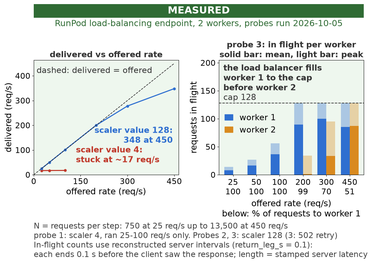
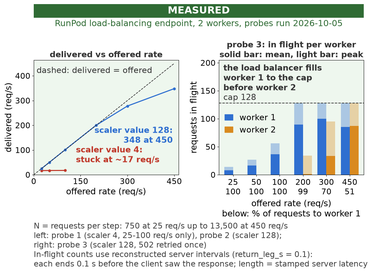
figures: the host-speed note counts 6 hosts in the curve, host re-measurement and validation records; the load-balancer note says which probe each panel draws; the plateau label is the median, as the post quotes it
The symlog comment no longer claims +-0.01 s is below every residual: two of
attempt 1's judged residuals (about -0.005 and -0.007 s) sit in the linear part.
The host-speed figure's bottom margin grows to fit the wrapped note. Re-rendered
and published; looked at host_speed and load_balancer at full size and phone
width: every note line on canvas and legible, nothing overlapping.

Changed region(s): [[0.088, 0.8498, 0.9973, 0.9963]]

diff --git a/autoscale/figures_a2_post.py b/autoscale/figures_a2_post.py
@@ -49,9 +49,10 @@ BIN_WIDTH_S = 10.0
 # sit near 0.05 s with a few bins to 1.3 s; on a linear axis wide enough for the
 # first, the second is a flat line on zero and the change of sign -- the whole
 # point of the figure -- cannot be seen (the first render did exactly that, with
-# the sign carried only by an annotation). Linear inside +-0.01 s, which is
-# below every residual in the data, so zero stays a line and no value is
-# squashed into it.
+# the sign carried only by an annotation). Linear inside +-0.01 s, so zero
+# stays a line. Two of attempt 1's judged residuals (about -0.005 and -0.007 s)
+# fall inside that linear part: they are drawn close to zero at their true
+# linear position, not squashed onto it. Every other residual is outside it.
 SYMLOG_LINTHRESH_S = 0.01
 Y_TICKS_S = [-6, -1, -0.1, 0, 0.1, 1, 6]
 
@@ -232,7 +233,8 @@ def load_balancer(analysis: dict, path, *, return_figure=False):
                      label=label, gid=gid)
     ax_rate.plot([0, offered_max], [0, offered_max], color=CURVE_COLOR, linewidth=1.3,
                  linestyle="--", label="delivered = offered", gid="offered_equals_delivered")
-    plateau = statistics.mean(
+    # The median over probe 1's steps, as the post quotes it (`lb_ceiling_rate`).
+    plateau = statistics.median(
         step["delivered_rate_rps"] for _, step in _steps(analysis, "1"))
     # Direct labels, not a legend: a legend in a panel this small lands on the
     # lines it names (the first render did exactly that), and the plateau, which
@@ -299,8 +301,8 @@ def load_balancer(analysis: dict, path, *, return_figure=False):
     _note(ax_rate,
           f"N = requests per step: {min(requests):,} at {min(rates)} req/s up to "
           f"{max(requests):,} at {max(rates)} req/s\n"
-          f"probe 1: scaler 4, ran {rates_1[0]}-{rates_1[-1]} req/s only. "
-          f"Probes 2, 3: scaler 128 (3: 502 retry)\n"
+          f"left: probe 1 (scaler 4, {rates_1[0]}-{rates_1[-1]} req/s only), probe 2 "
+          f"(scaler 128);\nright: probe 3 (scaler 128, 502 retried once)\n"
           f"In-flight counts use reconstructed server intervals (return_leg_s = {leg}):\n"
           f"each ends {leg} s before the client saw the response; length = stamped server latency",
           y=-0.41)
@@ -353,7 +355,7 @@ def host_speed(analysis: dict, path, *, return_figure=False):
     curve_host = " / ".join(curve_hosts)
     fig, ax = plt.subplots(figsize=(FIG_WIDTH_IN, FIG_HEIGHT_IN))
     left, right = 0.11, 0.96
-    fig.subplots_adjust(left=left, right=right, top=0.80, bottom=0.38)
+    fig.subplots_adjust(left=left, right=right, top=0.80, bottom=0.42)
     xs_of = {level: i for i, level in enumerate(HOST_LEVELS)}
 
     ax.axhline(1.0, color=CURVE_COLOR, linewidth=2, gid="curve_host")
@@ -396,9 +398,9 @@ def host_speed(analysis: dict, path, *, return_figure=False):
               fontsize=_pt(PX_LEGEND), frameon=False, borderaxespad=0.0)
     _note(ax, "ratio axis starting at 0.75, not 0: a ratio near 1 is unreadable on an axis from 0\n"
               "N: 3 runs per level (daps3haubwrzbn, each sweep); 3 repeats (sef5s24viyecyr)\n"
-              f"{seen['count']} hosts in the curve and validation records, "
-              f"{seen['measured_for_speed']} measured for speed; not a distribution",
-          y=-0.60)
+              f"{seen['count']} hosts in the curve, host re-measurement and validation "
+              f"records,\n{seen['measured_for_speed']} measured for speed; not a distribution",
+          y=-0.62)
     _figure_banner(fig, left, right, "MEASURED",
                    "server-side latency on 3 RunPod hosts, relative to the curve's host",
                    MEASURED_BANNER)

diff --git a/tests/test_a2_post_figures.py b/tests/test_a2_post_figures.py
@@ -1,5 +1,6 @@
 """The post's four figures: content, legibility at phone width, nothing off canvas."""
 
+import copy
 import json
 from pathlib import Path
 
@@ -33,6 +34,11 @@ def _legible_and_on_canvas(fig):
                 t.get_text()
 
 
+def _flat(fig):
+    """Every text joined, line breaks as spaces: a note wrapped to fit reads as one line."""
+    return " ".join(" ".join(_texts(fig)).split())
+
+
 def _gids(fig):
     return [a.get_gid() for a in fig.findobj() if getattr(a, "get_gid", lambda: None)()]
 
@@ -62,15 +68,34 @@ def test_load_balancer_shows_the_ceiling_and_the_fill_first_routing(tmp_path):
     _legible_and_on_canvas(fig)
 
 
+def test_load_balancer_note_says_which_probe_each_panel_draws(tmp_path):
+    fig = fp.load_balancer(A, tmp_path / "lb.png", return_figure=True)
+    text = _flat(fig)
+    assert ("left: probe 1 (scaler 4, 25-100 req/s only), probe 2 (scaler 128); "
+            "right: probe 3 (scaler 128, 502 retried once)") in text
+
+
+def test_the_plateau_label_is_the_median_delivery_as_the_post_quotes_it(tmp_path):
+    a = copy.deepcopy(A)
+    for step, rate in zip(("25", "50", "100"), (10.0, 11.0, 30.0), strict=True):
+        a["load_balancer"]["probes"]["1"]["steps"][step]["delivered_rate_rps"] = rate
+    fig = fp.load_balancer(a, tmp_path / "lb.png", return_figure=True)
+    text = " ".join(_texts(fig))
+    assert "stuck at ~11 req/s" in text  # median 11; the mean would read 17
+
+
 def test_host_speed_plots_each_host_against_the_curves_host(tmp_path):
     fig = fp.host_speed(A, tmp_path / "h.png", return_figure=True)
     assert "curve_host" in _gids(fig)
     assert {"daps3haubwrzbn_128", "daps3haubwrzbn_256", "sef5s24viyecyr"} <= set(_gids(fig))
-    text = " ".join(_texts(fig))
+    text = _flat(fig)
     assert "not a distribution" in text and "MEASURED" in text
     hosts = A["host_speed"]["hosts_in_records"]
-    assert (f"{hosts['count']} hosts in the curve and validation records, "
-            f"{hosts['measured_for_speed']} measured for speed; not a distribution") in text
+    # The hosts are counted over the curve, the host re-measurement and the validation
+    # records; naming only two of the three sources would undercount where they came from.
+    assert (f"{hosts['count']} hosts in the curve, host re-measurement and validation "
+            f"records, {hosts['measured_for_speed']} measured for speed; not a distribution"
+            ) in text
     assert fig.axes[0].get_ylim() == pytest.approx((0.75, 1.05))
     _legible_and_on_canvas(fig)
 
